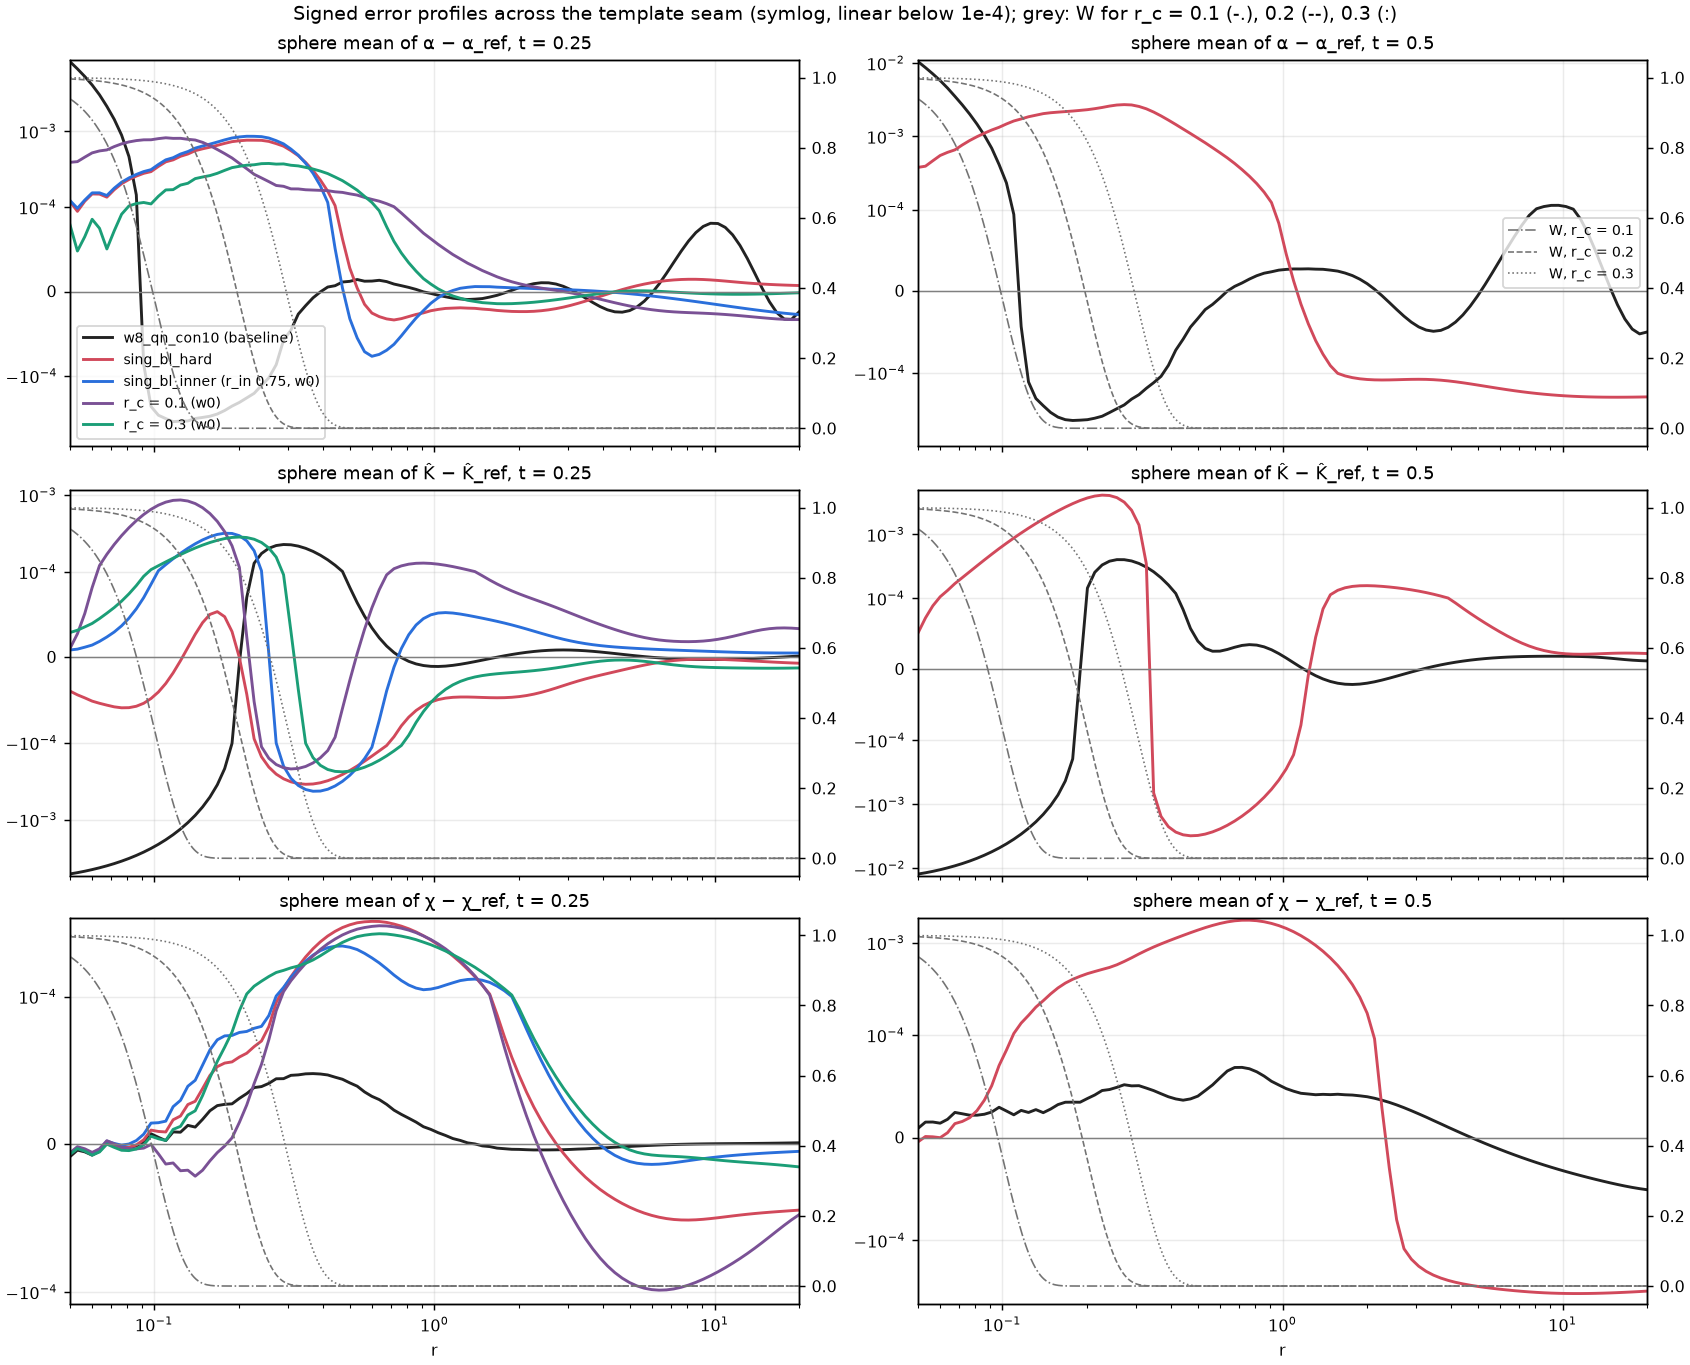
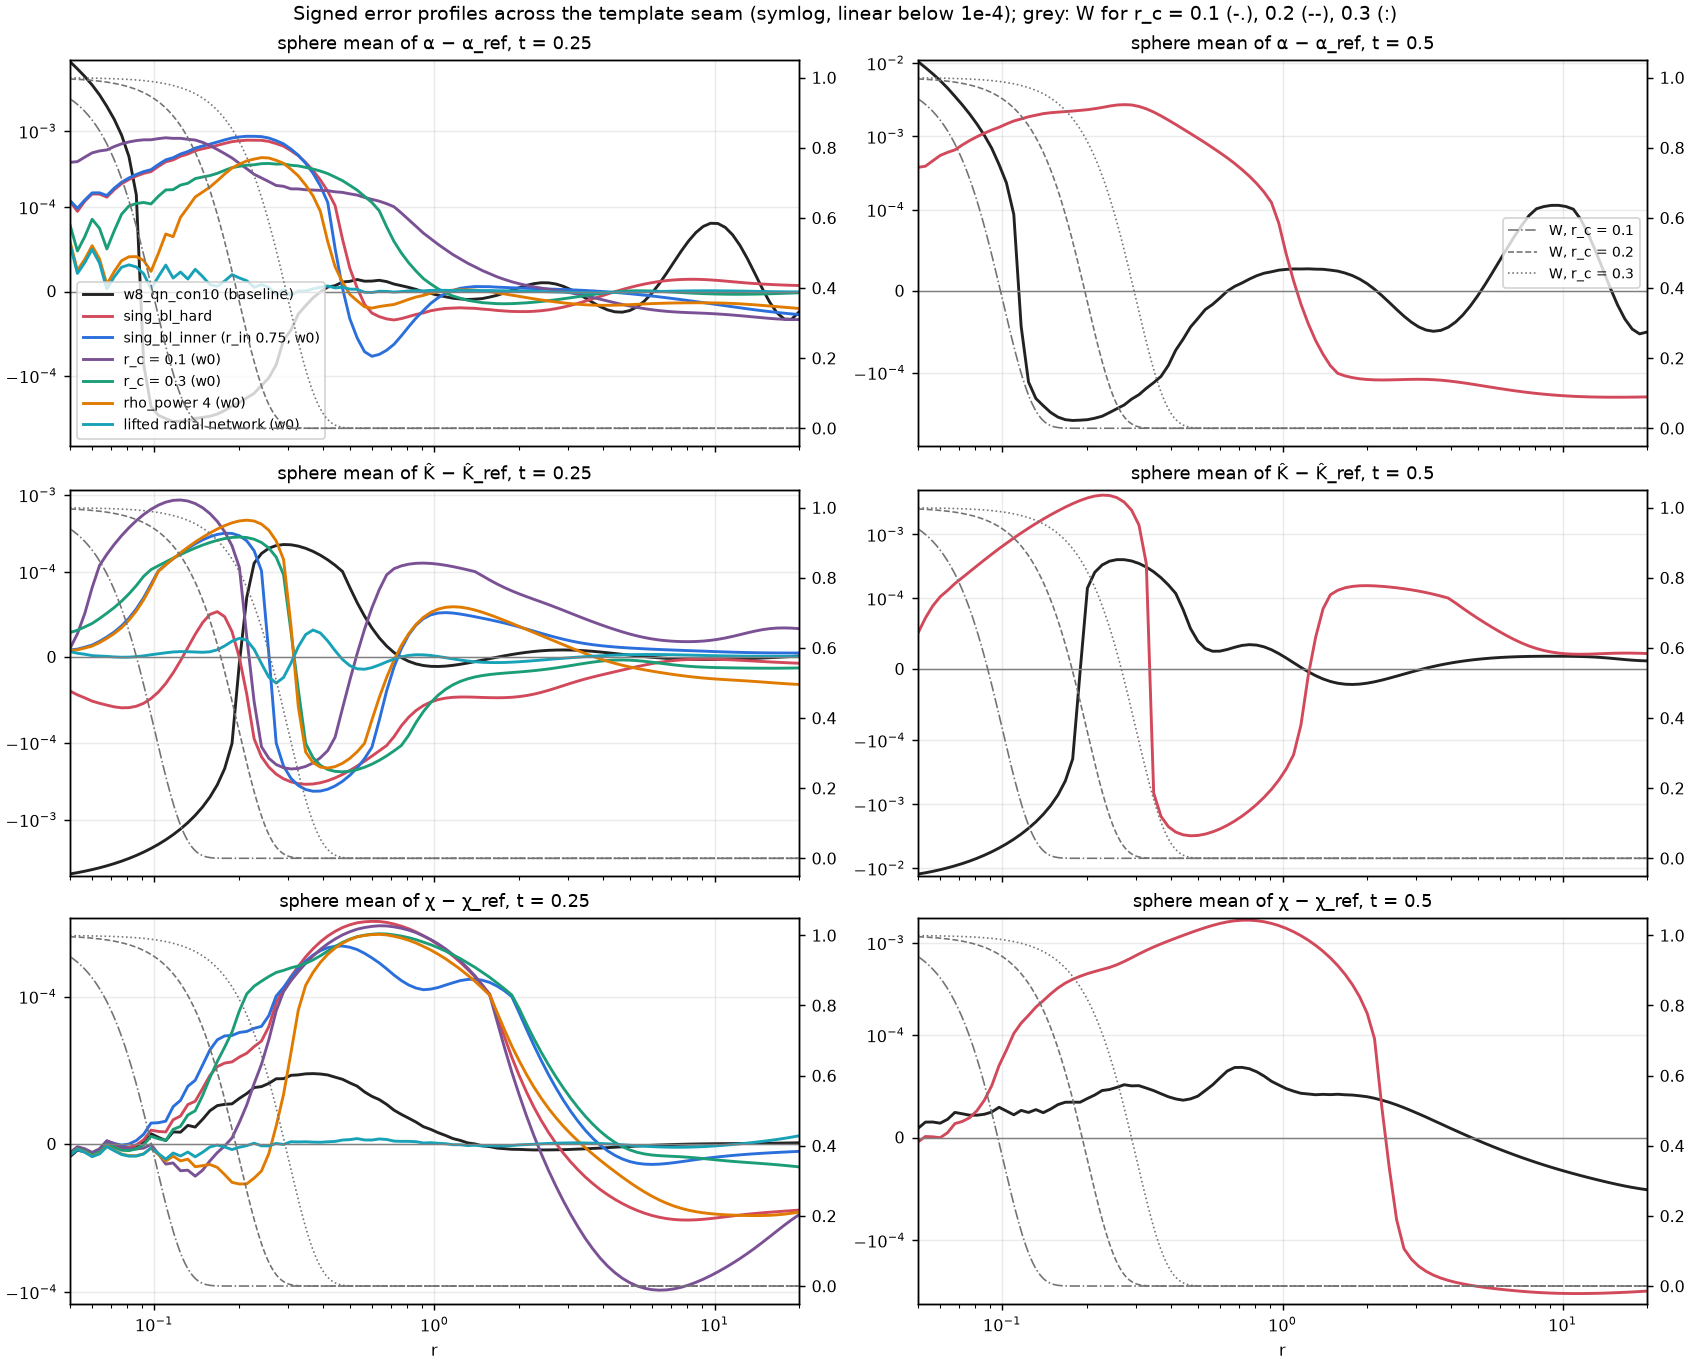
SBH: sing_w0_radial final window-0 grades (1D level in 3D); seam plot with the lifted radial network

diff --git a/SBH/tools/plot_seam_profile.py b/SBH/tools/plot_seam_profile.py
@@ -22,7 +22,8 @@ OUT = sys.argv[2] if len(sys.argv) > 2 else os.path.join(os.path.dirname(os.path
 RUNS = [("w8_qn_con10 (baseline)", "long_con10_w8.npz", "#222222"), ("sing_bl_hard", "sing_bl_hard_sph.npz", "#d1495b"),
         ("sing_bl_inner (r_in 0.75, w0)", "sing_bl_inner75_sph.npz", "#2a6fdb"),
         ("r_c = 0.1 (w0)", "sing_w0_rc01_sph.npz", "#7a5195"), ("r_c = 0.3 (w0)", "sing_w0_rc03_sph.npz", "#1b9e77"),
-        ("rho_power 4 (w0)", "sing_w0_rho4_sph.npz", "#e07b00")]
+        ("rho_power 4 (w0)", "sing_w0_rho4_sph.npz", "#e07b00"),
+        ("lifted radial network (w0)", "sing_w0_radial_sph.npz", "#17a2b8")]
 Z = {n: np.load(os.path.join(D, f)) for n, f, _ in RUNS if os.path.exists(os.path.join(D, f))}
 R_C = 0.2
 plt.rcParams.update({"font.size": 9, "axes.titlesize": 10, "axes.grid": True, "grid.alpha": 0.25})

diff --git a/SBH/README.md b/SBH/README.md
@@ -1471,6 +1471,10 @@ Graded from the checkpoint at 10250 (`--eval_spheres` on partial.pkl), t = 0.25,
 symmetry built into the network the 3D code reaches the 1D level; the 3D MLP's representation of a
 spherically symmetric tensor field was the whole seam problem. For two punctures: one lifted radial
 network per puncture about a_A(t) plus a small 3D MLP for the non-spherical remainder.
+Final window 0 (24000 iterations, 3.2 h; held-out 4.2e-8, flat since 4000): core rms alpha 2.2e-5, chi
+4.9e-6, Khat 1.4e-5, gt 8.3e-6 (sing_bl_hard 4.8e-4 / 1.4e-4 / 2.7e-4 / 8.6e-4); by band alpha 3e-5 / 6e-6 /
+8e-7 / 1e-6 / 9e-7, Khat 7e-6 / 2e-5 / 4e-6 / 4e-6 / 3e-6, chi 6e-6 / 2e-6 / 2e-6 / 7e-7 / 1e-6; mass -1.6e-5 /
+-2.9e-5 / -2.3e-5 / +9.9e-5 at r = 0.3 / 1 / 3 / 10. Added to `plots/2026-11-01/seam_profile.png`.
 
 **Early stopping (2026-11-01).** The loss reaches its floor long before 24000 iterations (the radial run
 by 4000). `--stop_floor F --stop_tol 1.05 --stop_patience N`: a window ends once the held-out loss has
